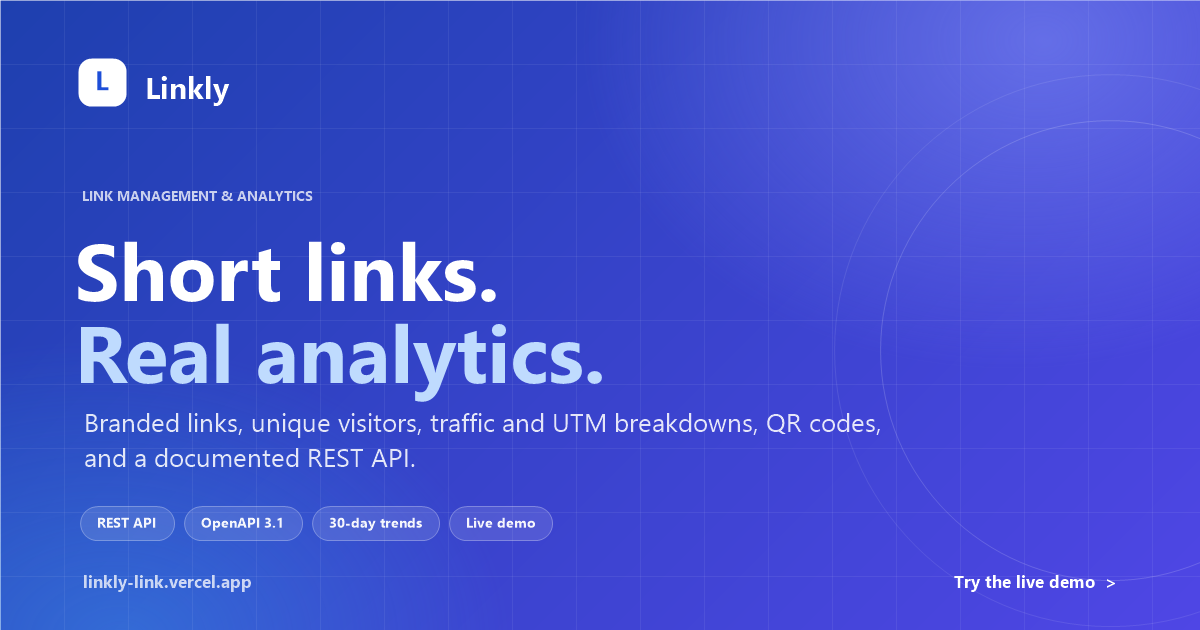
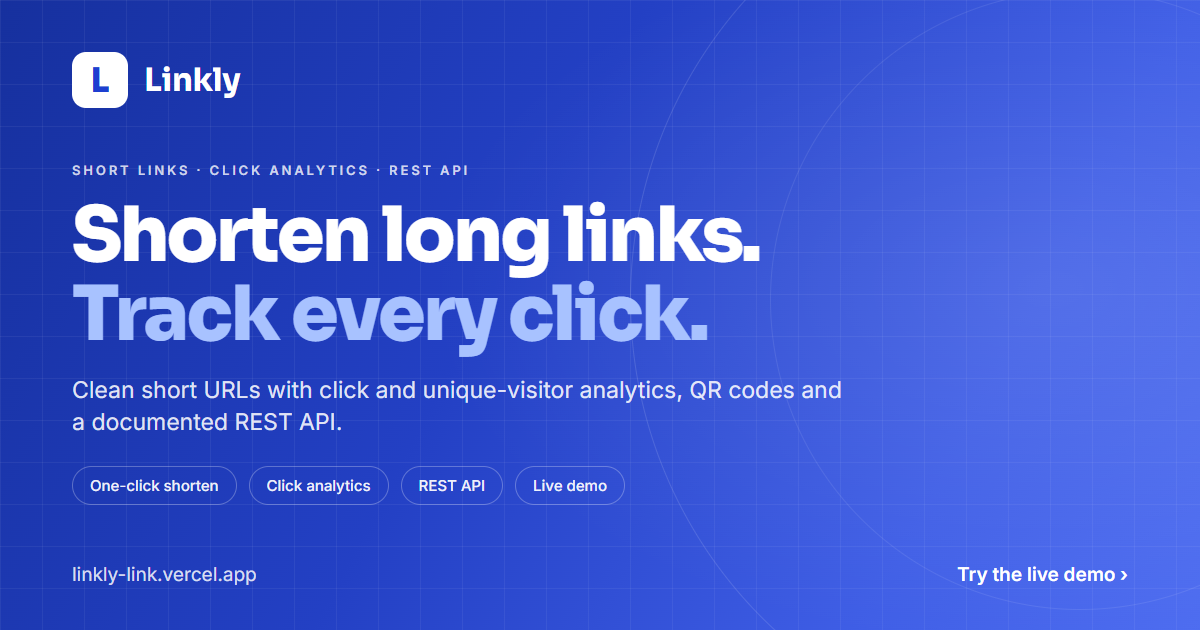
2.1.8 - lead with shortening and regenerate the OG card

diff --git a/public/index.html b/public/index.html
@@ -5,17 +5,17 @@
     <meta name="viewport" content="width=device-width, initial-scale=1.0, viewport-fit=cover">
     <meta name="theme-color" content="#f4f7fb">
     <link rel="icon" type="image/svg+xml" href="/favicon.svg">
-    <title>Linkly — Link management & analytics</title>
-    <meta name="description" content="Create branded short links, track clicks and unique visitors, and ship integrations through a documented REST API.">
+    <title>Linkly — Shorten long links, track clicks</title>
+    <meta name="description" content="Shorten long URLs into clean short links, then track clicks and unique visitors — with QR codes and a documented REST API.">
     <meta property="og:type" content="website">
     <meta property="og:site_name" content="Linkly">
-    <meta property="og:title" content="Linkly — Link management & analytics">
-    <meta property="og:description" content="Create branded short links, track clicks and unique visitors, and ship integrations through a documented REST API.">
+    <meta property="og:title" content="Linkly — Shorten long links, track clicks">
+    <meta property="og:description" content="Shorten long URLs into clean short links, then track clicks and unique visitors — with QR codes and a documented REST API.">
     <meta property="og:url" content="https://linkly-link.vercel.app/">
     <meta property="og:image" content="https://linkly-link.vercel.app/og-image.png">
     <meta name="twitter:card" content="summary_large_image">
-    <meta name="twitter:title" content="Linkly — Link management & analytics">
-    <meta name="twitter:description" content="Create branded short links, track clicks and unique visitors, and ship integrations through a documented REST API.">
+    <meta name="twitter:title" content="Linkly — Shorten long links, track clicks">
+    <meta name="twitter:description" content="Shorten long URLs into clean short links, then track clicks and unique visitors — with QR codes and a documented REST API.">
     <meta name="twitter:image" content="https://linkly-link.vercel.app/og-image.png">
     <link rel="canonical" href="https://linkly-link.vercel.app/">
     <link rel="manifest" href="/manifest.json">
@@ -28,7 +28,7 @@
     <link rel="stylesheet" href="/mobile.css">
     <script type="module" src="/firebase-config.js"></script>
     <script src="https://accounts.google.com/gsi/client" async defer></script>
-    <script type="application/ld+json">{"@context":"https://schema.org","@type":"WebApplication","name":"Linkly","url":"https://linkly-link.vercel.app/","logo":"https://linkly-link.vercel.app/favicon.svg","description":"Create branded short links, track clicks and unique visitors, and ship integrations through a documented REST API.","applicationCategory":"UtilitiesApplication","operatingSystem":"Web","offers":{"@type":"Offer","price":"0","priceCurrency":"USD"}}</script>
+    <script type="application/ld+json">{"@context":"https://schema.org","@type":"WebApplication","name":"Linkly","url":"https://linkly-link.vercel.app/","logo":"https://linkly-link.vercel.app/favicon.svg","description":"Shorten long URLs into clean short links, then track clicks and unique visitors — with QR codes and a documented REST API.","applicationCategory":"UtilitiesApplication","operatingSystem":"Web","offers":{"@type":"Offer","price":"0","priceCurrency":"USD"}}</script>
 </head>
 <body>
     <a class="skip-link" href="#main">Skip to content</a>
@@ -50,8 +50,8 @@
 
     <main id="main" tabindex="-1">
         <section class="hero">
-            <h1>Short links. <span class="grad">Real analytics.</span></h1>
-            <p class="subtitle">Branded short links with click and unique-visitor analytics, QR codes and CSV export — plus a documented REST API built on Express, MongoDB and Firebase.</p>
+            <h1>Shorten long links. <span class="grad">Track every click.</span></h1>
+            <p class="subtitle">Paste a URL and get a clean short link in one click — with click analytics, QR codes and a documented REST API built in.</p>
         </section>
 
         <section class="panel auth-prompt" id="authPrompt" hidden>

diff --git a/public/sw.js b/public/sw.js
@@ -1,6 +1,6 @@
 /* Linkly service worker — app-shell caching.
    Bump CACHE to force a fresh cache after deploys. */
-const CACHE = 'linkly-v14';
+const CACHE = 'linkly-v15';
 const PRECACHE = [
     '/',
     '/shared.css',

diff --git a/COMMIT-HISTORY.md b/COMMIT-HISTORY.md
@@ -7,11 +7,23 @@ This document tracks every commit following the `2.x` versioning schema:
 - **One version number per agent response / request batch** — not per issue, not per commit: a single owner request (even if it fixes many issues) consumes exactly ONE version number, multiple commits inside one response all take that same number (fold follow-up fixes into it — never burn a second number), and only a genuinely new owner request (a new response turn) advances the number.
 
 > ### 📌 Next version — **keep this line current, every commit**
-> - **`main` → `2.1.8`** (current head is `2.1.7` — see below)
+> - **`main` → `2.1.9`** (current head is `2.1.8` — see below)
 
 ---
 
 ## Commit History
+
+### 2.1.8 - lead with shortening, regenerate the OG card
+
+- **Date**: 2026-10-25
+- **Why**: owner — the site was built as a link shortener; keep analytics/API as supporting features rather than the main pitch (hybrid positioning).
+- **Changes**:
+  - Home hero now leads with the action: `Shorten long links. / Track every click.` with a one-line description of shortening plus analytics, QR and REST API.
+  - Title, description, Open Graph, Twitter and JSON-LD copy updated to `Shorten long links, track clicks` wording.
+  - `public/og-image.png` regenerated at 1200×630 with the new headline and chips (`One-click shorten`, `Click analytics`, `REST API`, `Live demo`).
+  - PWA manifest name/description aligned with the hybrid pitch.
+  - Service-worker cache bumped to `linkly-v15`.
+- **Verification**: OG card rendered in the browser at 1200×630; no test/build run (owner rule).
 
 ### 2.1.7 - mention short links in the footer tagline
 
